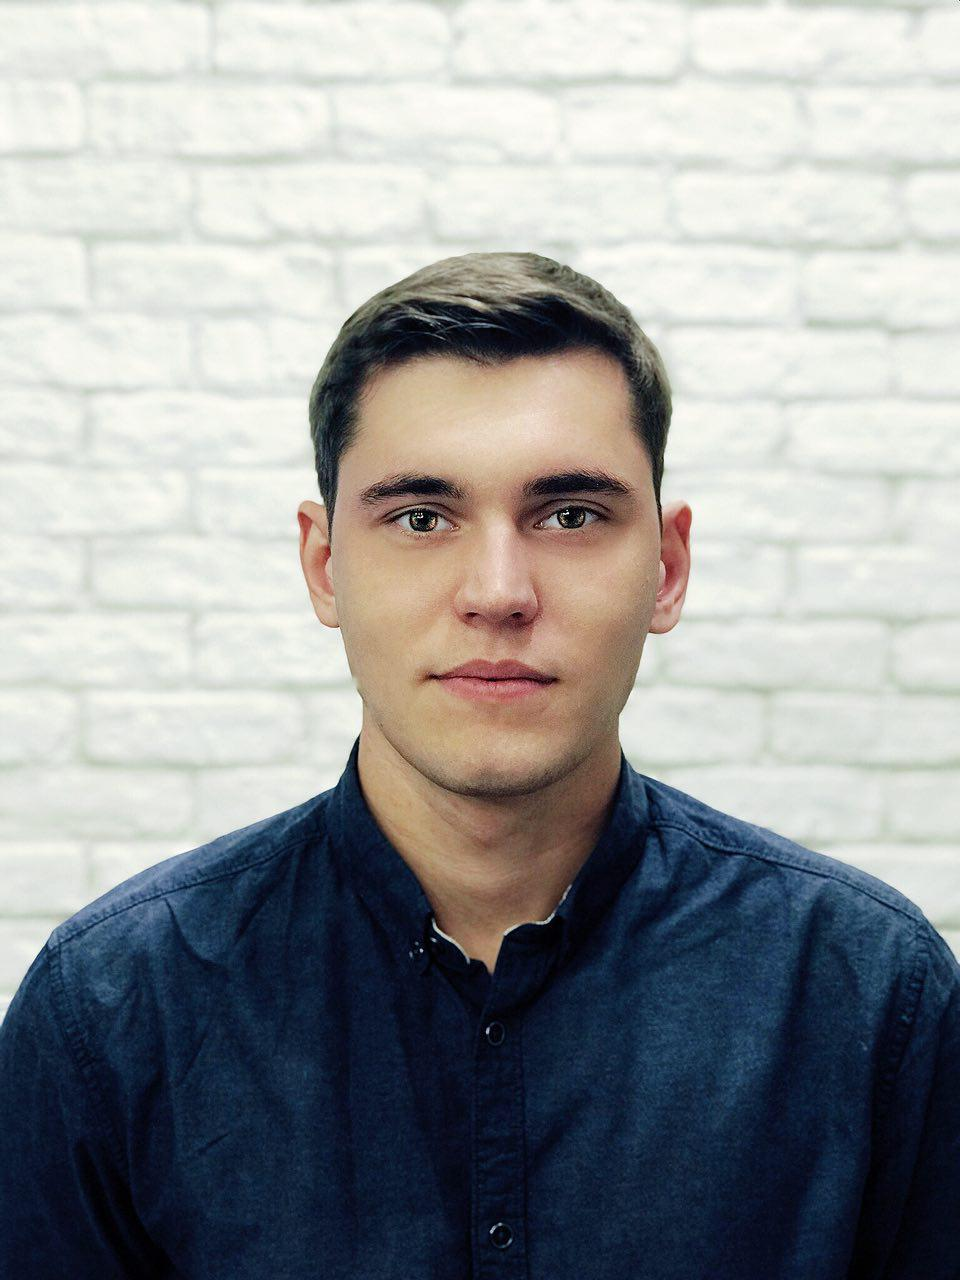
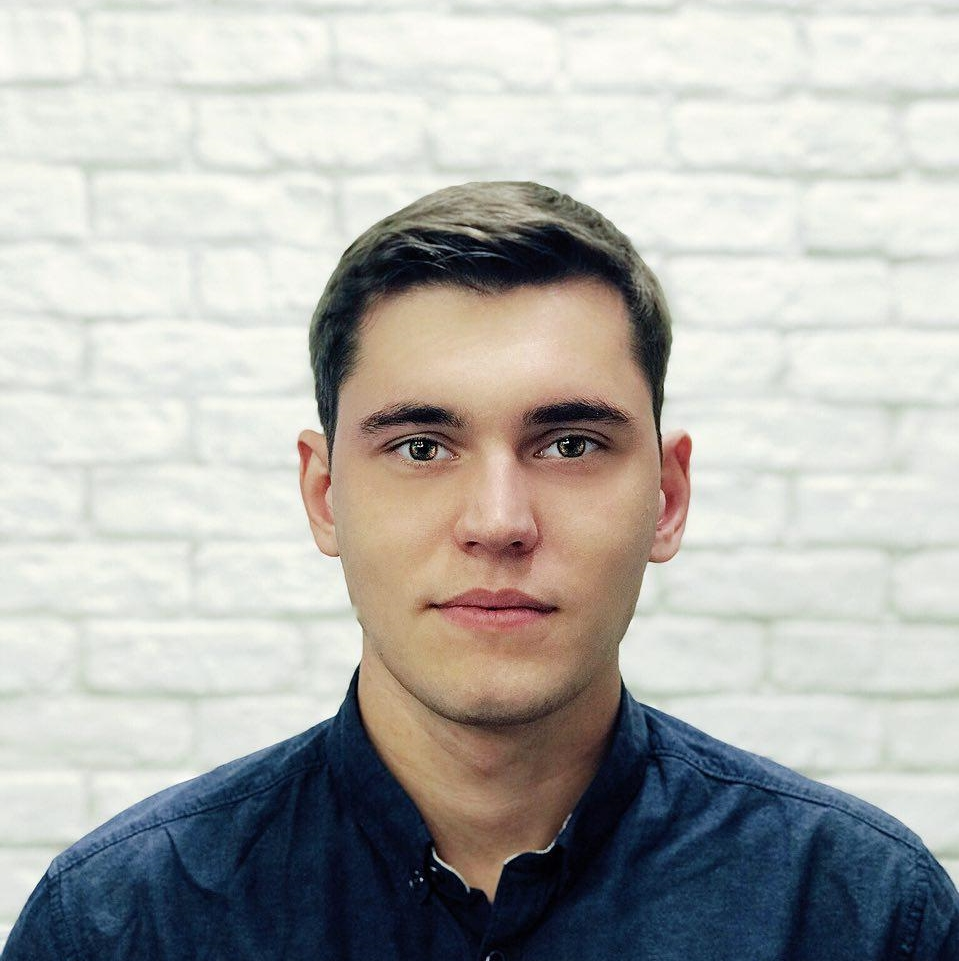
Team photos/labels Portfolio labels header less volume

diff --git a/_includes/team.html b/_includes/team.html
@@ -9,14 +9,14 @@
     </div>
     <div class="container-fluid team">
         <div class="row no-gutter">
-            <div class="col-lg-4 col-sm-6">
+            <!--<div class="col-lg-4 col-sm-6">
                 <a  class="portfolio-box">
                     <img width="" height="" src="img/team/detonavomek.jpg" class="img-responsive" alt="">
                     <div class="portfolio-box-caption">
                         <div class="portfolio-box-caption-content">
-                            <!--<div class="project-category text-faded">
+                            &lt;!&ndash;<div class="project-category text-faded">
                                 BE Developer
-                            </div>-->
+                            </div>&ndash;&gt;
                             <div class="project-name">
                                 Anton Adamiv
                             </div>
@@ -29,9 +29,9 @@
                     <img width="" height="" src="img/team/thymajesty.jpg" class="img-responsive" alt="">
                     <div class="portfolio-box-caption">
                         <div class="portfolio-box-caption-content">
-                            <!--<div class="project-category text-faded">
+                            &lt;!&ndash;<div class="project-category text-faded">
                                 FE Developer
-                            </div>-->
+                            </div>&ndash;&gt;
                             <div class="project-name">
                                 Dmitry Priadko
                             </div>
@@ -44,9 +44,9 @@
                     <img width="" height="" src="img/team/pod666.jpg" class="img-responsive" alt="">
                     <div class="portfolio-box-caption">
                         <div class="portfolio-box-caption-content">
-                            <!--<div class="project-category text-faded">
+                            &lt;!&ndash;<div class="project-category text-faded">
                                 BE Developer
-                            </div>-->
+                            </div>&ndash;&gt;
                             <div class="project-name">
                                 Viktor Danyliuk
                             </div>
@@ -59,9 +59,9 @@
                     <img width="" height="" src="img/team/starosta.jpg" class="img-responsive" alt="">
                     <div class="portfolio-box-caption">
                         <div class="portfolio-box-caption-content">
-                            <!--<div class="project-category text-faded">
+                            &lt;!&ndash;<div class="project-category text-faded">
                                 BE Developer
-                            </div>-->
+                            </div>&ndash;&gt;
                             <div class="project-name">
                                 Andrii Letsyk
                             </div>
@@ -74,9 +74,9 @@
                     <img width="" height="" src="img/team/YevheniiKyselov.jpg" class="img-responsive" alt="">
                     <div class="portfolio-box-caption">
                         <div class="portfolio-box-caption-content">
-                            <!--<div class="project-category text-faded">
+                            &lt;!&ndash;<div class="project-category text-faded">
                                 FE Developer
-                            </div>-->
+                            </div>&ndash;&gt;
                             <div class="project-name">
                                 Yevhenii Kyselov
                             </div>
@@ -89,9 +89,9 @@
                     <img width="" height="" src="img/team/noluck.jpg" class="img-responsive" alt="">
                     <div class="portfolio-box-caption">
                         <div class="portfolio-box-caption-content">
-                            <!--<div class="project-category text-faded">
+                            &lt;!&ndash;<div class="project-category text-faded">
                                 FE Developer
-                            </div>-->
+                            </div>&ndash;&gt;
                             <div class="project-name">
                                 Andrii Datsenko
                             </div>
@@ -99,7 +99,83 @@
                         </div>
                     </div>
                 </a>
+            </div>-->
+
+            <div class="row">
+                <div class="col-lg-4 col-md-6 col-xs-12">
+                    <div class="hexa">
+                        <div class="hex1">
+                            <div class="hex2">
+                                <img src="img/team/detonavomek.jpg" alt="" width="420" height="413"/>
+                            </div>
+                        </div>
+                    </div>
+                    <h2 class="text-center">Anton Adamiv</h2>
+                    </br>
+                    </br>
+                </div>
+                <div class="col-lg-4 col-md-6 col-xs-12">
+                    <div class="hexa">
+                        <div class="hex1">
+                            <div class="hex2">
+                                <img src="img/team/thymajesty.jpg" alt="" width="420" height="413"/>
+                            </div>
+                        </div>
+                    </div>
+                    <h2 class="text-center">Dmitry Priadko</h2>
+                    </br>
+                    </br>
+                </div>
+                <div class="col-lg-4 col-md-6 col-xs-12">
+                    <div class="hexa">
+                        <div class="hex1">
+                            <div class="hex2">
+                                <img src="img/team/pod666.jpg" alt="" width="420" height="413"/>
+                            </div>
+                        </div>
+                    </div>
+                    <h2 class="text-center">Viktor Danyliuk</h2>
+                    </br>
+                    </br>
+                </div>
+                <div class="col-lg-4 col-md-6 col-xs-12">
+                    <div class="hexa">
+                        <div class="hex1">
+                            <div class="hex2">
+                                <img src="img/team/starosta.jpg" alt="" width="420" height="413"/>
+                            </div>
+                        </div>
+                    </div>
+                    <h2 class="text-center">Andrii Letsyk</h2>
+                    </br>
+                    </br>
+                </div>
+                <div class="col-lg-4 col-md-6 col-xs-12">
+                    <div class="hexa">
+                        <div class="hex1">
+                            <div class="hex2">
+                                <img src="img/team/YevheniiKyselov.jpg" alt="" width="420" height="413"/>
+                            </div>
+                        </div>
+                    </div>
+                    <h2 class="text-center">Yevhenii Kyselov</h2>
+                    </br>
+                    </br>
+                </div>
+                <div class="col-lg-4 col-md-6 col-xs-12">
+                    <div class="hexa">
+                        <div class="hex1">
+                            <div class="hex2">
+                                <img src="img/team/noluck.jpg" alt="" width="420" height="413"/>
+                            </div>
+                        </div>
+                    </div>
+                    <h2 class="text-center">Andrii Datsenko</h2>
+                    </br>
+                    </br>
+                </div>
             </div>
+
 
         </div>
     </div>

diff --git a/_includes/portfolio.html b/_includes/portfolio.html
@@ -10,16 +10,17 @@
     <div class="container-fluid portfolio">
         <div class="row no-gutter">
             <div class="col-md-6 col-lg-6 col-sm-12">
-                <a  class="portfolio-box">
+                <a class="portfolio-box">
                     <img src="img/portfolio/psa.jpg" class="img-responsive" alt="">
                     <div class="portfolio-box-caption">
                         <div class="portfolio-box-caption-content">
-                            <div class="project-name">
-                                PSA Expense and Time tracker
-                            </div>
+                            <!--<div class="project-name">
+
+                            </div>-->
                         </div>
                     </div>
                 </a>
+                <h2 class="text-center">PSA Expense and Time tracker</h2>
             </div>
             <div class="col-md-6 col-lg-6 col-sm-12">
                 <a  class="portfolio-box">
@@ -32,6 +33,7 @@
                         </div>
                     </div>
                 </a>
+                <h2 class="text-center">Project Management tool</h2>
             </div>
             <div class="col-md-6 col-lg-6 col-sm-12">
                 <a  class="portfolio-box">
@@ -44,6 +46,7 @@
                         </div>
                     </div>
                 </a>
+                <h2 class="text-center">Problem Solving tool</h2>
             </div>
             <div class="col-md-6 col-lg-6 col-sm-12">
                 <a  class="portfolio-box">
@@ -56,6 +59,7 @@
                         </div>
                     </div>
                 </a>
+                <h2 class="text-center">Literature and art tool</h2>
             </div>
         </div>
     </div>

diff --git a/css/main.scss b/css/main.scss
@@ -69,9 +69,9 @@ $theme-dark: #222;
 
 .portfolio-box {
     .portfolio-box-caption {
-        &:hover {
+        /*&:hover {
             opacity: .5;
-        }
+        }*/
         .portfolio-box-caption-content {
             top: 90%;
             .project-category {
@@ -85,3 +85,40 @@ $theme-dark: #222;
         }
     }
 }
+
+/*
+ * ==== hexagon
+ */
+.hexa, .hexa div {
+    margin: 0 auto;
+    transform-origin: 50% 50%;
+    overflow: hidden;
+    width: 300px;
+    height: 300px;
+}
+.hexa {
+    width: 425px;
+    height: 330px;
+}
+.hexa div {
+    width: 100%;
+    height: 100%;
+}
+
+.hexa img {
+    margin-top: -37px;
+    display: block;
+    margin-left: auto;
+    margin-right: auto;
+}
+.hexa {
+    transform: rotate(120deg);
+}
+.hex1 {
+    transform: rotate(-60deg);
+}
+.hex2 {
+    transform: rotate(-60deg);
+}
+
+

diff --git a/_sass/_base.scss b/_sass/_base.scss
@@ -208,6 +208,7 @@ header {
 // Sections
 
 .section-heading {
+  font-size: 50px;
   margin-top: 0;
 }
 
@@ -259,11 +260,11 @@ header {
       }
     }
   }
-  &:hover {
+  /*&:hover {
     .portfolio-box-caption {
       opacity: 1;
     }
-  }
+  }*/
   @media (min-width: 768px) {
     .portfolio-box-caption {
       .portfolio-box-caption-content {
